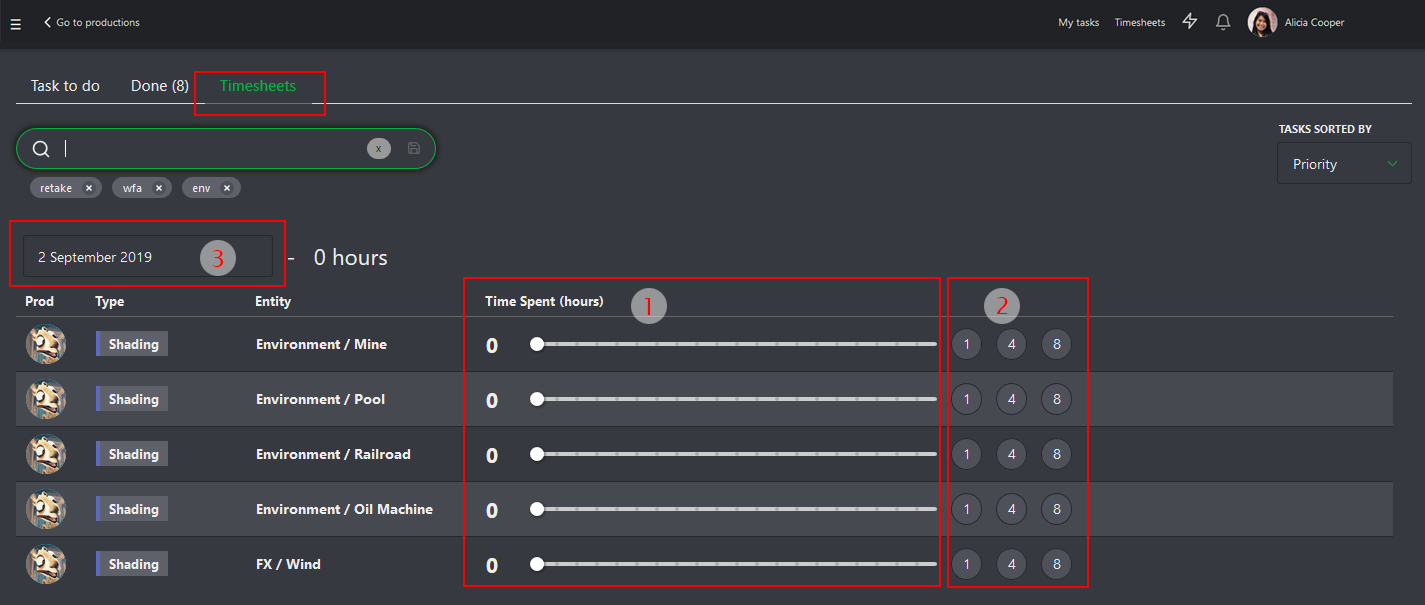
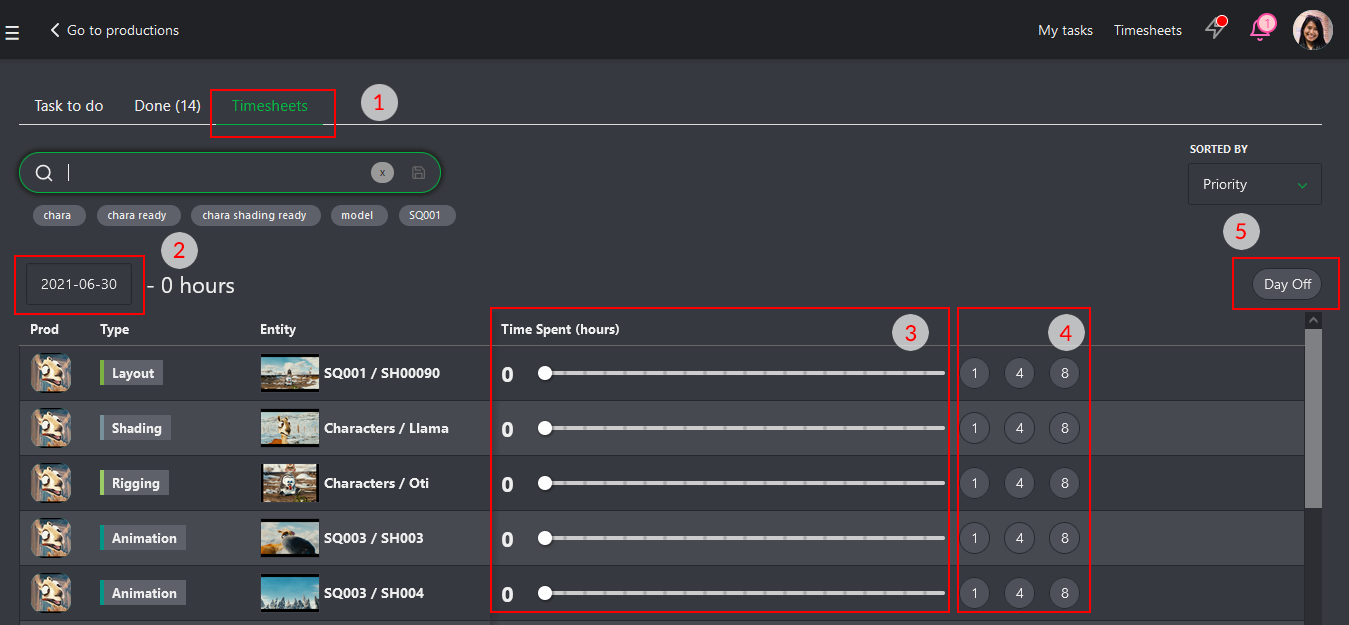
getting started artist

diff --git a/docs/getting-started-advanced/README.md b/docs/getting-started-advanced/README.md
@@ -15,7 +15,7 @@ Click on the **+** near the Name column.
 You may have extra information to add on your pages as the **level of difficulties**,
 the **name of the studios**, when a production is split, the shot order, etc.
 
-In the custom column, you can store all kinds of text information: a **list of value** or a **free value**.
+You can store all kinds of text information in the custom column: a **list of value** or a **free value**.
 
 The **free value** is different for each entity.
 
@@ -23,7 +23,7 @@ The **list of value** gives you the same choice for each entity. Moreover, it ha
 
 ![Custom Column list](../img/getting-started/custom_column_list.png)
 
-Type the elements of the list below **Available values**, and confirm them by clicking on **Add value**.
+Type the list elements below **Available values**, and confirm them by clicking on **Add value**.
 
 Validate the creation of the custom column with the **Confirm** button.
 
@@ -47,7 +47,7 @@ Don't forget to press the **Confirm** button when you are done.
 If you need to **edit** or **delete** the custom column, go back to the general spreadsheet page.
 Nearby the name of your custom column, click on the arrow ![Custom Column detail](../img/getting-started/arrow.png). 
 
-You can now **sort** your global page with this new column. For example let's create a **Sort Order** custom column.
+You can now **sort** your global page with this new column. For example, let's create a **Sort Order** custom column.
 
 ![Custom Column exemple](../img/getting-started/custom_column_exemple.png)
 
@@ -59,16 +59,16 @@ Now the shots are not sorted by name but by the custom column information.
 
 ![Custom Column Sort By result](../img/getting-started/custom_column_sortby_result.png)
 
-You can also select in the menu if you want to edit the name of the custom column and its information, or if you want to delete it.
+You can also select in the menu if you want to edit the name of the custom column and its information or if you want to delete it.
 
-You can also use the **CSV Import** to fill quickly your custom column.
-You need to first create your **Custom Column** into kitsu, then add it in your spreadhseet, then copy paste your data into the **CSV Import**.
+You can also use the **CSV Import** to fill your custom column quickly.
+You need first to create your **Custom Column** into kitsu, add it in your spreadsheet, then copy-paste your data into the **CSV Import**.
 
 [Update Shots information with CSV Import](../batch-action/README.md#update-shots-information-with-csv-import)
 
 ## Add multiple Preview
 
-You can add multiple images at the same time, or, once you have uploaded an image, you can add another one.
+You can add multiple images simultaneously, or once you have uploaded an image, you can add another one.
 
 ![attach preview drag drop](../img/getting-started/upload_several_pictures.png)
 
@@ -76,7 +76,7 @@ The **Add preview** pop-up opens and asks you to choose a file.
 
 You can navigate through the pictures uploaded. 
 
-You can change the order of the preview if you click on the number, then by drag and drop them.
+You can change the preview order if you click on the number, then drag and drop them.
 
 ![preview drag drop](../img/getting-started/multiple_preview.png)
 
@@ -109,7 +109,7 @@ You can click on the status of each task to open the comment panel and see the h
 
 ## Change priorities
 
-At some point on the production you may want to prioritize some tasks, and
+At some point in the production, you may want to prioritize some tasks, and
 pinpoint these urgent tasks to your team.
 
 For this, we use the same technique as before. Click on the space
@@ -126,7 +126,7 @@ Click on the name on the left on the action menu, and choose
 
 ![Change priority](../img/getting-started/change_priority.png)
 
-There are four levels of priority: **Normal**, that is the fundamental level of all the
+There are four levels of priority: **Normal**, which is the fundamental level of all the
 tasks, **High**, **Very High**, or **Emergency**. Save the changes with the
 **Confirm** button.
 
@@ -150,7 +150,7 @@ more there are, the more urgent the task is.
 
 Alternatively, you can do it per **batch**. 
 
-You can select multiple shots or assets, by pressing the **crtl** or
+You can select multiple shots or assets by pressing the **ctrl** or
 **shift** key.
 
 Then go to the **Change status** section on the action menu.
@@ -165,7 +165,7 @@ You validate the new status with the **Confirm** button.
 
 ## Simplify the global page
 
-You may need to reduce a task type column in a global page. For example, you may be 
+You may need to reduce a task type column on a global page. For example, you may be 
 only interested in layout and animation but not so much about the shipment for the client.
 
 Close to each task type name, you can click on the arrow 
@@ -187,7 +187,7 @@ To hide your custom column, click on the arrow on the right border of the global
 
 Here you can choose which column you want to **hide** or **display**.
 
-You can also hide all the non-essential column, like **Description**, **Custom column**, 
+You can also hide all the non-essential columns, like **Description**, **Custom column**, 
 even the minimize columns.
 
 Just click on the **Hide additional information** 
@@ -208,6 +208,6 @@ Kitsu grabs the number of frames (or seconds) validated per day/week/month per A
 
 **2**: Select the level of details, Day, Week or Month
 
-**3**: Select the count mode, per Frames or per Seconds.
+**3**: Select the count mode, per Frame or Seconds.
 
-At any time, you can click on a number and see its detail on the right pannel.
+At any time, you can click on a number and see its detail on the right panel.

diff --git a/docs/getting-started-artist/README.md b/docs/getting-started-artist/README.md
@@ -7,7 +7,7 @@ On your first connection, we encourage you to fill your contact information
 into your profile.
 Click on your name on the top right of the screen (1), then on **Profile** (2). You can also change the color of the **Theme** (3).
 
-NB: A link to this **Documentation** and YouYbe **Tutorials** are available (4 & 5).
+NB: A link to this **Documentation** and YouTube **Tutorials** are available (4 & 5).
 You can also jump on our Discord (7) or look at our roadmap (8).
  
 ![User profile](../img/getting-started/user_profil.png)
@@ -140,17 +140,17 @@ on the **Done** tab.
 
 ## Fill your timesheet
 
-Every day, you can declare how much time you spent on each task. On your **My
-Tasks** page, go to the **Timesheets** tab. Or click on the shortcut on top of the screen.
+Every day, you can declare how much time you spent on each task. On your **My Tasks** 
+page, go to the **Timesheets** tab (1). Or click on the shortcut on top of the screen.
 
 ![Timesheets](../img/getting-started/timesheets.png)
 
-You need to move the cursor (1) next to each task accordingly to the number of
+You need to move the cursor (3) next to each task accordingly to the number of
 hours spent. You can also go quicker and click on the **1**, **4**, or **8**
-hours buttons (2).
+hours buttons (4).
 
-If one day you miss your declaration, you can click on the today date (3), and
-go back in time and select the day you have missed.
+If one day you miss your declaration, you can click on the today date (2), and
+go back in time and select the day you have missed. If you didn't work, you can tag the day as an **Day Off** (5).
 
 ![Timesheets change the date](../img/getting-started/timesheet_change_date.png)
 
